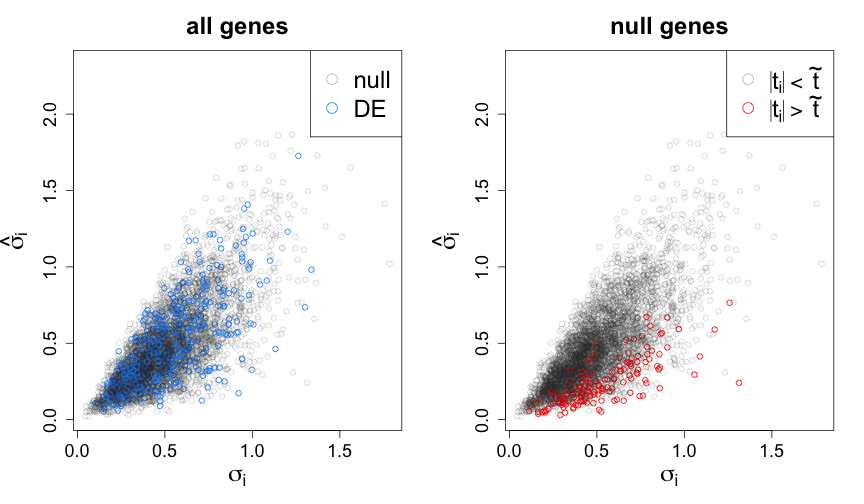
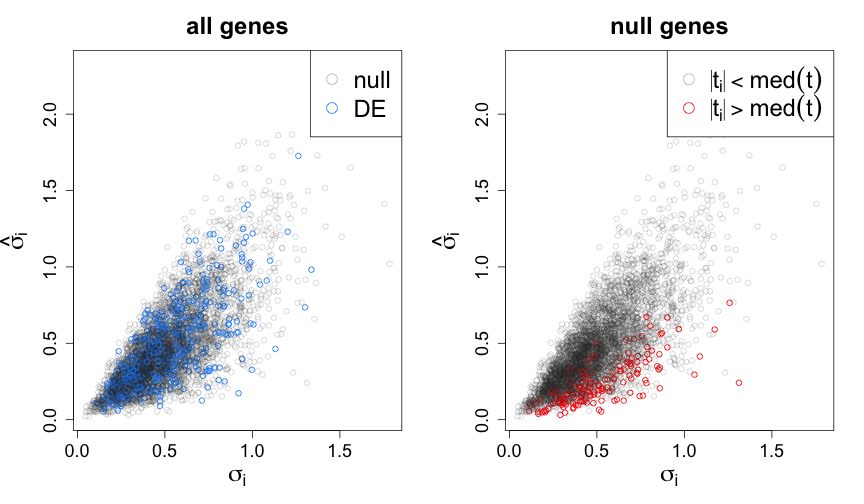
update

Changed region(s): [[0.8125, 0.119, 0.9688, 0.2381], [0.7812, 0.2679, 0.8438, 0.2976]]

diff --git a/index.html b/index.html
@@ -89,7 +89,7 @@
 <section class='' data-state='' id='slide-9'>
   <h3>Motivating problem</h3>
   <ul>
-<li>Measure gene expression for N genes, and M samples</li>
+<li>Gene expression for <em>i</em>=1,...,N genes and <em>j</em>=1,...,M samples</li>
 <li>log of gene expression values are in a tall matrix X</li>
 <li>log here is convenient because gene expression is non-negative and has a
 long tail</li>
@@ -112,6 +112,21 @@ X_{ij} &\sim N(\mu_{ij}, \sigma_i) \\
 
 </section>
 <section class='' data-state='' id='slide-10'>
+  <h3>Note \(\sigma_i\)</h3>
+  <p>This is <em>critical</em>: different genes <em>i</em> have different amount of variability.</p>
+
+<p><br></p>
+
+<p>\[ 
+\begin{align}
+X_{ij} &\sim N(\mu_{ij}, \sigma_i) \\
+\mu_{ij} &= \mu_{i0}, \quad j \in A \\
+\mu_{ij} &= \mu_{i0} + \delta_i, \quad j \in B
+\end{align}
+\]</p>
+
+</section>
+<section class='' data-state='' id='slide-11'>
   <h3>Goal of differential expression testing</h3>
   <ul>
 <li>Find a set of genes for which \(\delta_i \ne 0\)</li>
@@ -126,7 +141,7 @@ E(\sum_i 1_{ \{\delta_i = 0\} }) \le G z
 \]</p>
 
 </section>
-<section class='' data-state='' id='slide-11'>
+<section class='' data-state='' id='slide-12'>
   <h3>Is this realistic?</h3>
   <ul>
 <li>Can we accomplish this if all \(\delta_i \ne 0\)
@@ -142,7 +157,7 @@ E(\sum_i 1_{ \{\delta_i = 0\} }) \le G z
 </ul>
 
 </section>
-<section class='' data-state='' id='slide-12'>
+<section class='' data-state='' id='slide-13'>
   <h3>Is this realistic?</h3>
   <ul>
 <li>What about \(\sigma_i\) for both groups?
@@ -156,7 +171,7 @@ E(\sum_i 1_{ \{\delta_i = 0\} }) \le G z
 </ul>
 
 </section>
-<section class='' data-state='' id='slide-13'>
+<section class='' data-state='' id='slide-14'>
   <h3>Back to the model</h3>
   <p>\[
 \begin{align}
@@ -176,33 +191,57 @@ X_{ij} &\sim N(\mu_{ij}, \sigma_i) \\
 </ul>
 
 </section>
-<section class='' data-state='' id='slide-14'>
+<section class='' data-state='' id='slide-15'>
   <h3>Distribution of \(\sigma_i\)</h3>
   <p><img src="assets/fig/sigmadist-1.png" alt="plot of chunk sigmadist"></p>
 
 </section>
-<section class='' data-state='' id='slide-15'>
+<section class='' data-state='' id='slide-16'>
   <h3>Try simple row t-tests</h3>
   <p><img src="assets/fig/boxt-1.png" alt="plot of chunk boxt"></p>
 
 </section>
-<section class='' data-state='' id='slide-16'>
+<section class='' data-state='' id='slide-17'>
   <h3>Just looking at ranks</h3>
   <p><img src="assets/fig/roc-1.png" alt="plot of chunk roc"></p>
 
 </section>
-<section class='' data-state='' id='slide-17'>
+<section class='' data-state='' id='slide-18'>
   <h3>Characterize the false positives</h3>
-  <p>Set a \(\tilde{t} = \textrm{median}( \left| t_i \right| )\) for \(i\) s.t. \(\delta_i \ne 0\)</p>
+  <p>Call \(\textrm{med}(t) \equiv \textrm{median}( \left| t_i \right| )\) for \(i\) s.t. \(\delta_i \ne 0\)</p>
 
-<p><img src="assets/fig/tildet-1.png" alt="plot of chunk tildet"></p>
+<p><img src="assets/fig/mediant-1.png" alt="plot of chunk mediant"></p>
 
 </section>
-<section class='' data-state='' id='slide-18'>
+<section class='' data-state='' id='slide-19'>
   <h3>Estimates of \(\sigma_i\)</h3>
-  <p>\(\tilde{t} = \textrm{median}( \left| t_i \right| )\) for \(i\) s.t. \(\delta_i \ne 0\)</p>
+  <p>\(\textrm{med}(t) \equiv \textrm{median}( \left| t_i \right| )\) for \(i\) s.t. \(\delta_i \ne 0\)</p>
 
 <p><img src="assets/fig/fp-1.png" alt="plot of chunk fp"></p>
+
+</section>
+<section class='' data-state='' id='slide-20'>
+  <h3>New estimator for \(\sigma_i\)</h3>
+  <p>\(\bar{\sigma} = \frac{1}{N} \sum_{i=1}^N \hat{\sigma}_i\)</p>
+
+<p>\(\tilde{\sigma}_i^B \equiv (1-B) \hat{\sigma}_i + B \bar{\sigma}\)</p>
+
+<p><img src="assets/fig/tildesigma-1.png" alt="plot of chunk tildesigma"></p>
+
+</section>
+<section class='' data-state='' id='slide-21'>
+  <h3>How does new estimator perform</h3>
+  <p><img src="assets/fig/roc2-1.png" alt="plot of chunk roc2"></p>
+
+</section>
+<section class='' data-state='' id='slide-22'>
+  <h3>Summary</h3>
+  <ul>
+<li>Top false positives were coming from genes with too low \(\hat{\sigma}_i\)</li>
+<li>Replace \(\hat{\sigma}_i\) with an estimate which is closer to
+\(\bar{\sigma}\)</li>
+<li>Depending on &quot;close&quot;, new estimator dominates at all thresholds</li>
+</ul>
 
 </section>
     </div>

diff --git a/index.md b/index.md
@@ -86,7 +86,7 @@ Dept of Genetics
 
 ### Motivating problem
 
-* Measure gene expression for N genes, and M samples
+* Gene expression for *i*=1,...,N genes and *j*=1,...,M samples
 * log of gene expression values are in a tall matrix X
 * log here is convenient because gene expression is non-negative and has a
   long tail
@@ -105,6 +105,22 @@ $$
 <br>
 
 $\delta_i \ne 0$ implies DE (differential expression)
+
+---
+
+### Note $\sigma_i$
+
+This is *critical*: different genes *i* have different amount of variability.
+
+<br>
+
+$$ 
+\begin{align}
+X_{ij} &\sim N(\mu_{ij}, \sigma_i) \\
+\mu_{ij} &= \mu_{i0}, \quad j \in A \\
+\mu_{ij} &= \mu_{i0} + \delta_i, \quad j \in B
+\end{align}
+$$
 
 ---
 
@@ -180,14 +196,39 @@ $$
 
 ### Characterize the false positives
 
-Set a $\tilde{t} = \textrm{median}( \left| t_i \right| )$ for $i$ s.t. $\delta_i \ne 0$
+Call $\textrm{med}(t) \equiv \textrm{median}( \left| t_i \right| )$ for $i$ s.t. $\delta_i \ne 0$
 
-![plot of chunk tildet](assets/fig/tildet-1.png)
+![plot of chunk mediant](assets/fig/mediant-1.png)
 
 ---
 
 ### Estimates of $\sigma_i$
 
-$\tilde{t} = \textrm{median}( \left| t_i \right| )$ for $i$ s.t. $\delta_i \ne 0$
+$\textrm{med}(t) \equiv \textrm{median}( \left| t_i \right| )$ for $i$ s.t. $\delta_i \ne 0$
 
 ![plot of chunk fp](assets/fig/fp-1.png)
+
+---
+
+### New estimator for $\sigma_i$
+
+$\bar{\sigma} = \frac{1}{N} \sum_{i=1}^N \hat{\sigma}_i$
+
+$\tilde{\sigma}_i^B \equiv (1-B) \hat{\sigma}_i + B \bar{\sigma}$
+
+![plot of chunk tildesigma](assets/fig/tildesigma-1.png)
+
+---
+
+### How does new estimator perform
+
+![plot of chunk roc2](assets/fig/roc2-1.png)
+
+---
+
+### Summary
+
+* Top false positives were coming from genes with too low $\hat{\sigma}_i$
+* Replace $\hat{\sigma}_i$ with an estimate which is closer to
+  $\bar{\sigma}$
+* Depending on "close", new estimator dominates at all thresholds
